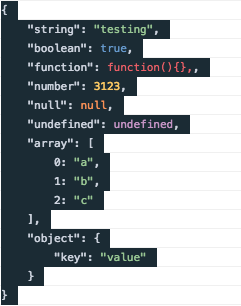
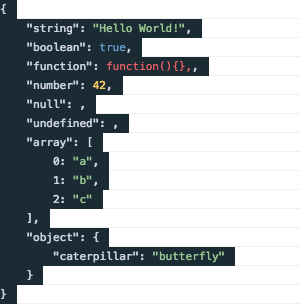
cleanup fs

Changed region(s): [[0.0, 0.0, 0.8714, 1.0]]

diff --git a/README.md b/README.md
@@ -32,7 +32,7 @@ console.json({
 	'number': 42,
 	'null': null,
 	'undefined': undefined,
-	'array': ['m', 'u', 'd'],
+	'array': ['a', 'b', 'c'],
 	'object': {
 		'caterpillar': 'butterfly'
 	}
